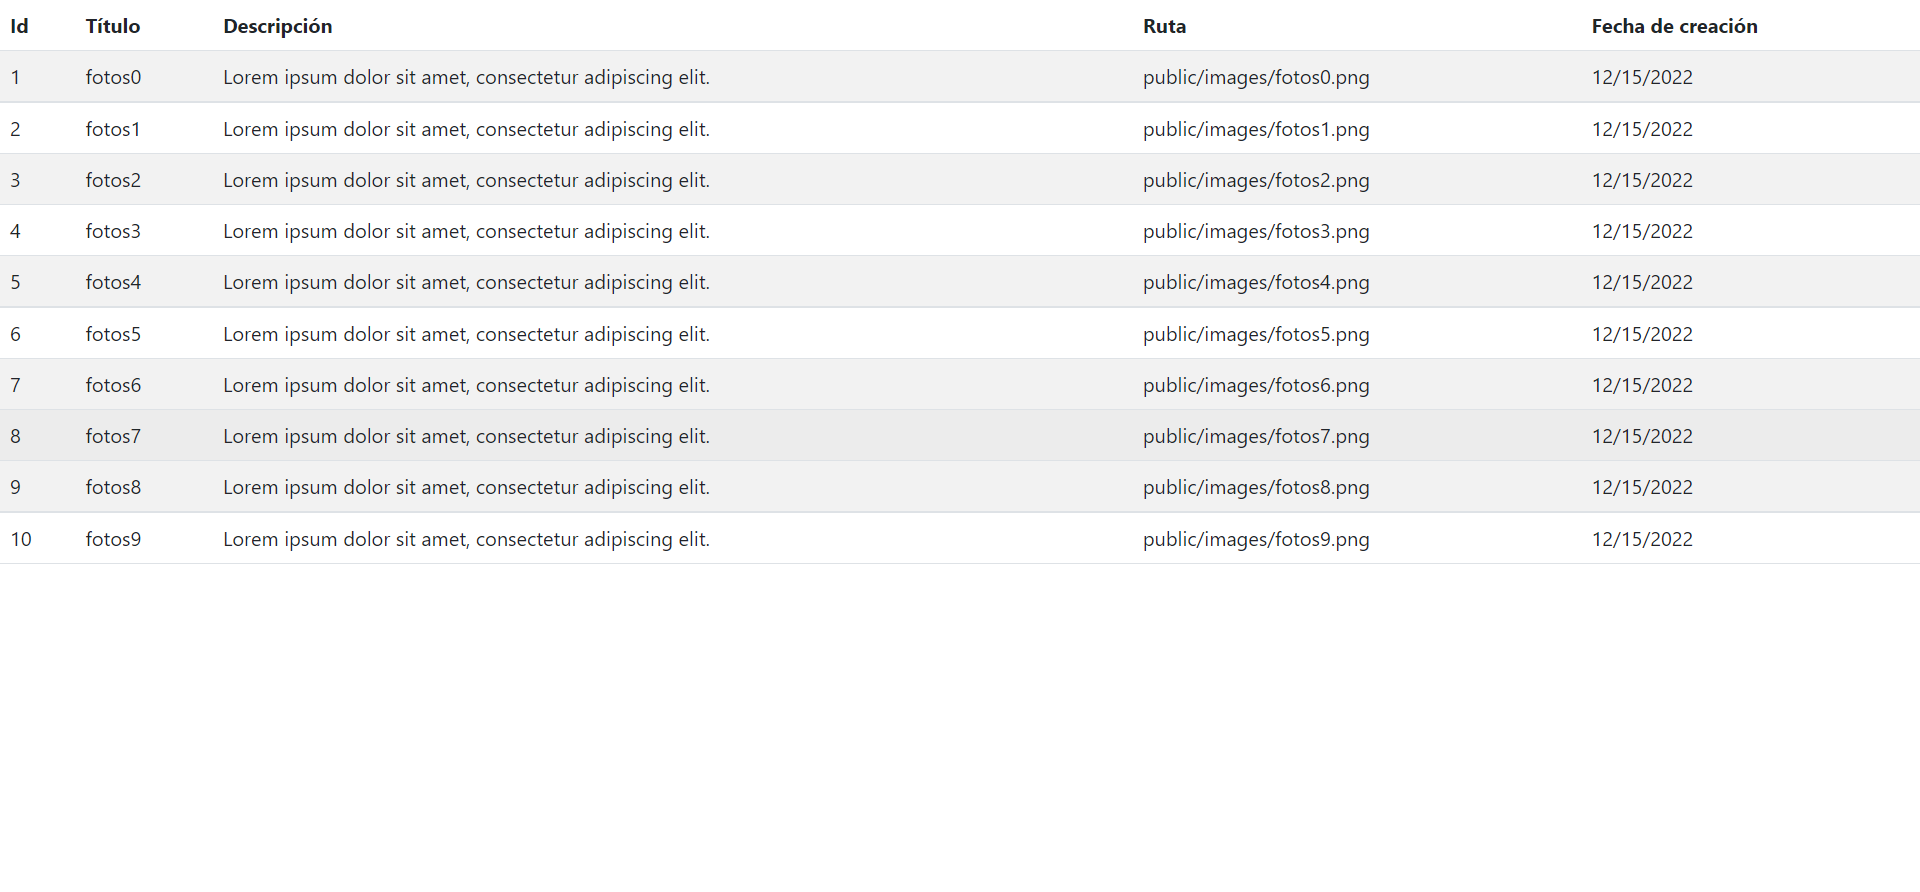
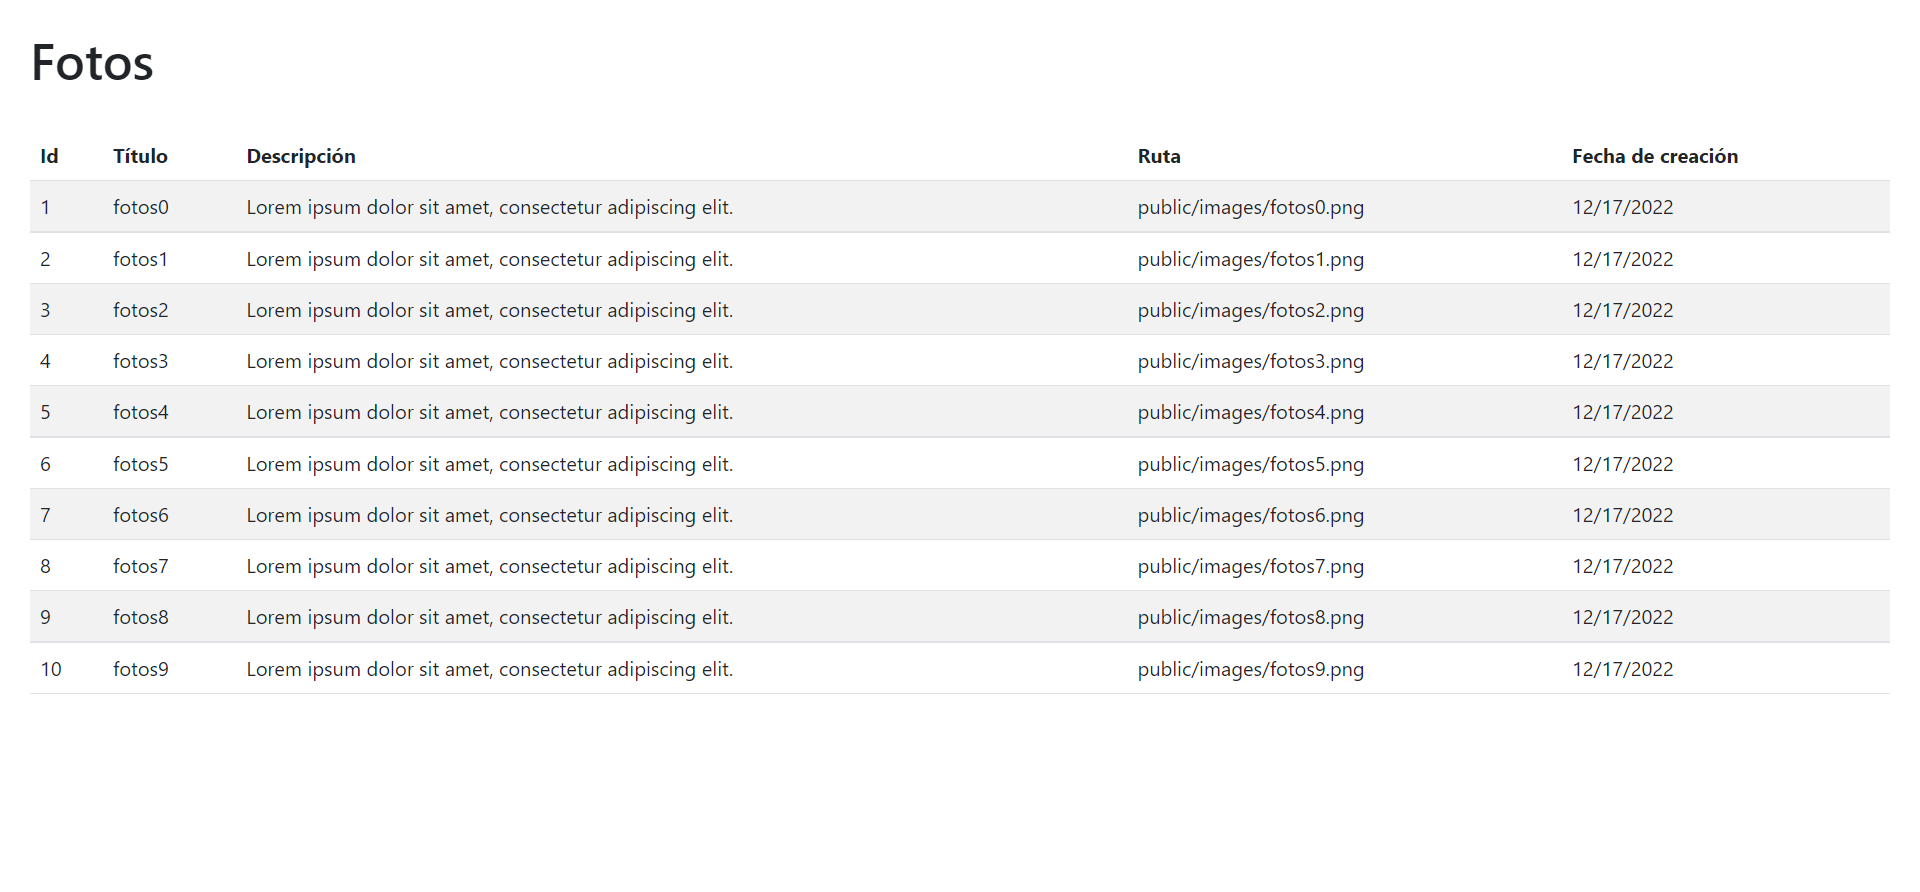
express_ormbasico

diff --git a/tutoriales/express_ormbasico.md b/tutoriales/express_ormbasico.md
@@ -83,12 +83,12 @@ El modelo es una representación abstracta, mediante clases (atributos y método
 
 Desde la línea de comandos, en la raíz de la carpeta del proyecto.
 
-* Crea el modelo: `foto`, con: 
+* Cree el modelo: `foto`, con: 
   
-  **`sequelize model:create --name foto --attributes titulo:string,descripcion:string,calificacion:float,ruta:string`**
+  `sequelize model:create --name foto --attributes titulo:string,descripcion:string,calificacion:float,ruta:string`
 
-  + En la carpeta `models` se agregó la clase **foto.js**, con la configuración predeterminada y los atributos especificados.
-  + En la carpeta `migrations` se agregó el script **YYYYMMDDHHMMSS\-create-foto.js** para crear la entidad en la base de datos.
+  + En la carpeta `models` se agregó la clase **foto.js**, con la configuración predeterminada para la clase foto con los atributos especificados.
+  + En la carpeta `migrations` se agregó el script **YYYYMMDDHHMMSS\-create-foto.js** para crear la tabla en la base de datos.
 
 <p align="center">
   <img src="imagenes/sequelize_foto.png">
@@ -163,7 +163,7 @@ async down (queryInterface, Sequelize) {
 ...
 </code></pre>
 
-* Ejecute de generadores de datos
+* Ejecute el generador de datos:
   + Uno a la vez, con: **`sequelize db:seed --seed YYYYMMDDHHMMSS-fotos`**
   + Todos, con: **`sequelize db:seed:all`**
   + Deshacer todos, con: **`sequelize db:seed:undo:all`**
@@ -177,7 +177,7 @@ Controlador
 ===========
 * * *
 
-Para solicitar los datos desde la base de datos, será necesario:
+Para solicitar los datos desde la base de datos, será necesario que:
 
 * Cree y modifique un nuevo manejador de rutas **routes/fotos.js**.
   + Agregue el requerimiento a express, la instanciación del Router y la exportación de ruteador.
@@ -286,28 +286,34 @@ Vista
 ```
 ...  
   
-<table class="table table-striped table-hover">  
-   <thead>  
-     <tr>  
-       <th>Id</th>  
-       <th>Título</th>  
-       <th>Descripción</th>  
-       <th>Ruta</th>  
-       <th>Fecha de creación</th>  
-     </tr>  
-   </thead>  
-   <tbody>  
-        <% arrFotos.forEach((foto) => { %>  
-          <tr>  
-            <td><%= foto.id %></td>  
-            <td><%= foto.titulo %></td>   
-            <td><%= foto.descripcion %></td> 
-            <td><%= foto.ruta %></td>  
-            <td><%= foto.createdAt.toLocaleDateString('en-US') %></td>   
-          </tr>  
-        <% }); %>  
-    </tbody>  
-</table>   
+<div class="container-fluid p-4">
+
+  <h1 class="pb-4"><%= title %></h1>
+
+  <table class="table table-striped table-hover">
+    <thead>
+      <tr>
+        <th>Id</th>
+        <th>Título</th>
+        <th>Descripción</th>
+        <th>Ruta</th>
+        <th>Fecha de creación</th>
+      </tr>
+    </thead>
+    <tbody>
+      <% arrFotos.forEach((foto) => { %>
+      <tr>
+        <td><%= foto.id %></td>
+        <td><%= foto.titulo %></td>
+        <td><%= foto.descripcion %></td>
+        <td><%= foto.ruta %></td>
+        <td><%= foto.createdAt.toLocaleDateString('en-US') %></td>
+      </tr>
+      <% }); %>
+    </tbody>
+  </table>
+
+</div> 
   
 ...
 
